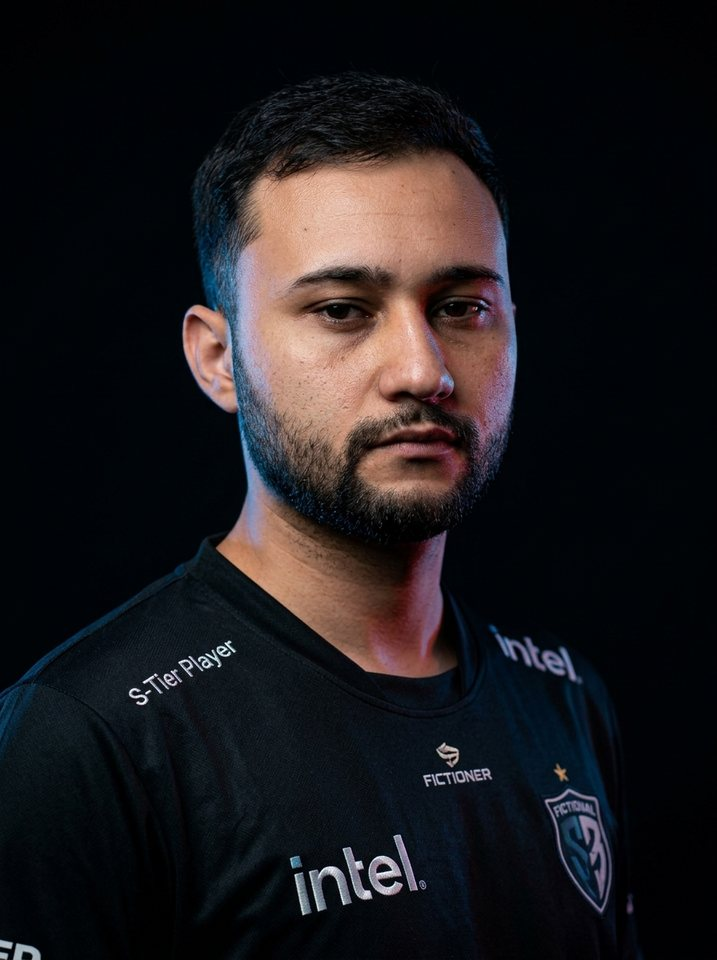
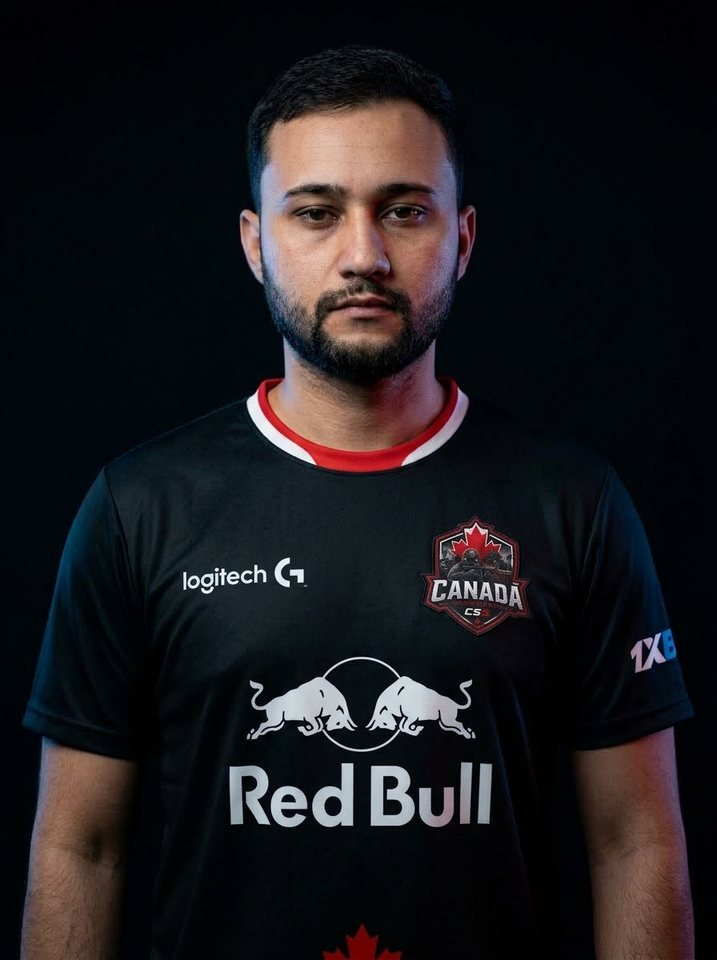
fotos novas dos jogadores, com uniforme de cada time

diff --git a/v2/index.html b/v2/index.html
@@ -6,14 +6,14 @@
 <title>KND League</title>
 <meta name="description" content="Placar e estatisticas da KND League.">
 <meta name="theme-color" content="#000000">
-<meta name="versao" content="24">
+<meta name="versao" content="25">
 <link rel="icon" href="assets/liga.png">
 <link rel="preconnect" href="https://fonts.googleapis.com">
 <link rel="preconnect" href="https://fonts.gstatic.com" crossorigin>
 <link href="https://fonts.googleapis.com/css2?family=Anton&family=Inter:wght@400;500;600;700;800&display=swap" rel="stylesheet">
 <!-- O ?v= no fim e obrigatorio: sem ele o navegador serve o css/js velho do cache
      mesmo depois de publicar. O numero sobe a cada deploy (scripts/publicar.py). -->
-<link rel="stylesheet" href="styles.css?v=24">
+<link rel="stylesheet" href="styles.css?v=25">
 </head>
 <body>
 
@@ -84,6 +84,6 @@
   <div class="mm-panel" id="mmPanel"></div>
 </div>
 
-<script src="app.js?v=24"></script>
+<script src="app.js?v=25"></script>
 </body>
 </html>
